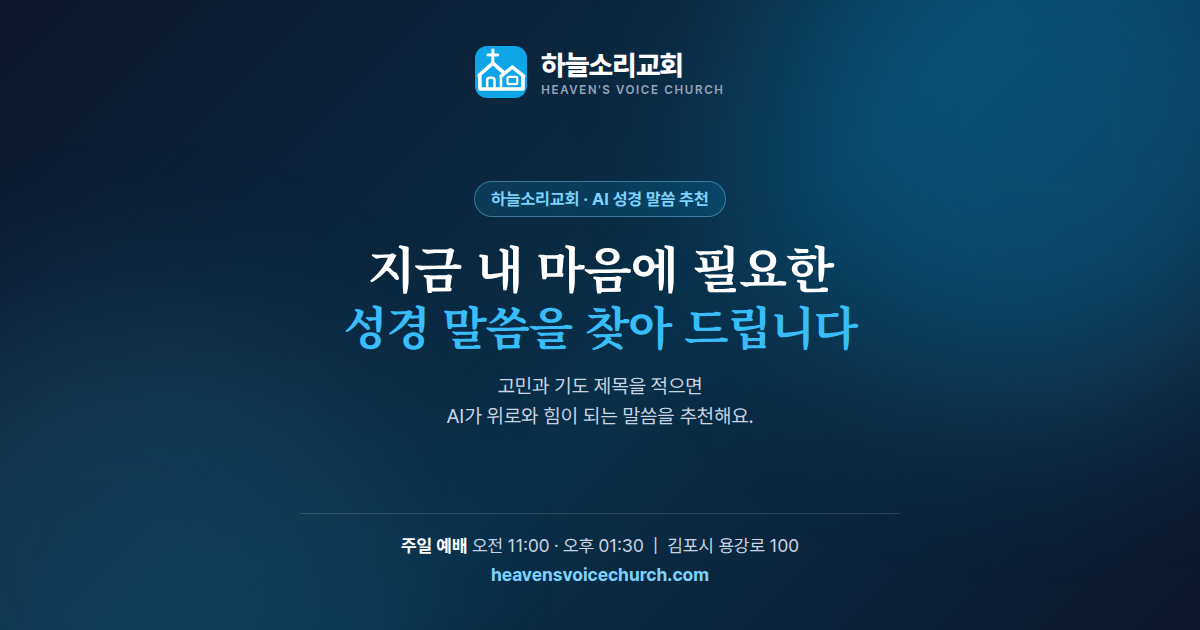
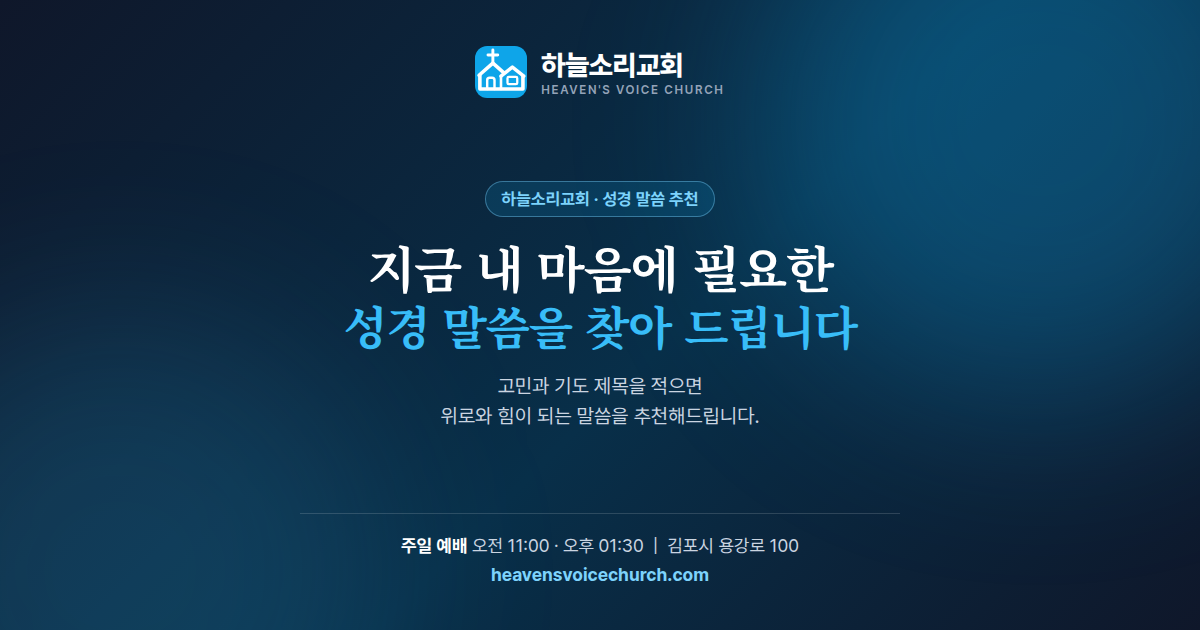
Text Modify at OG

Changed region(s): [[0.37, 0.6333, 0.6475, 0.6937], [0.37, 0.2714, 0.6167, 0.3619]]

diff --git a/scripts/og-image.html b/scripts/og-image.html
@@ -60,9 +60,9 @@
     </div>
 
     <div class="ai">
-      <span class="pill">하늘소리교회 · AI 성경 말씀 추천</span>
+      <span class="pill">하늘소리교회 · 성경 말씀 추천</span>
       <h1><span class="l1">지금 내 마음에 필요한</span><span class="l2">성경 말씀을 찾아 드립니다</span></h1>
-      <p class="sub">고민과 기도 제목을 적으면<br />AI가 위로와 힘이 되는 말씀을 추천해요.</p>
+      <p class="sub">고민과 기도 제목을 적으면<br />위로와 힘이 되는 말씀을 추천해드립니다.</p>
     </div>
 
     <div class="foot">
